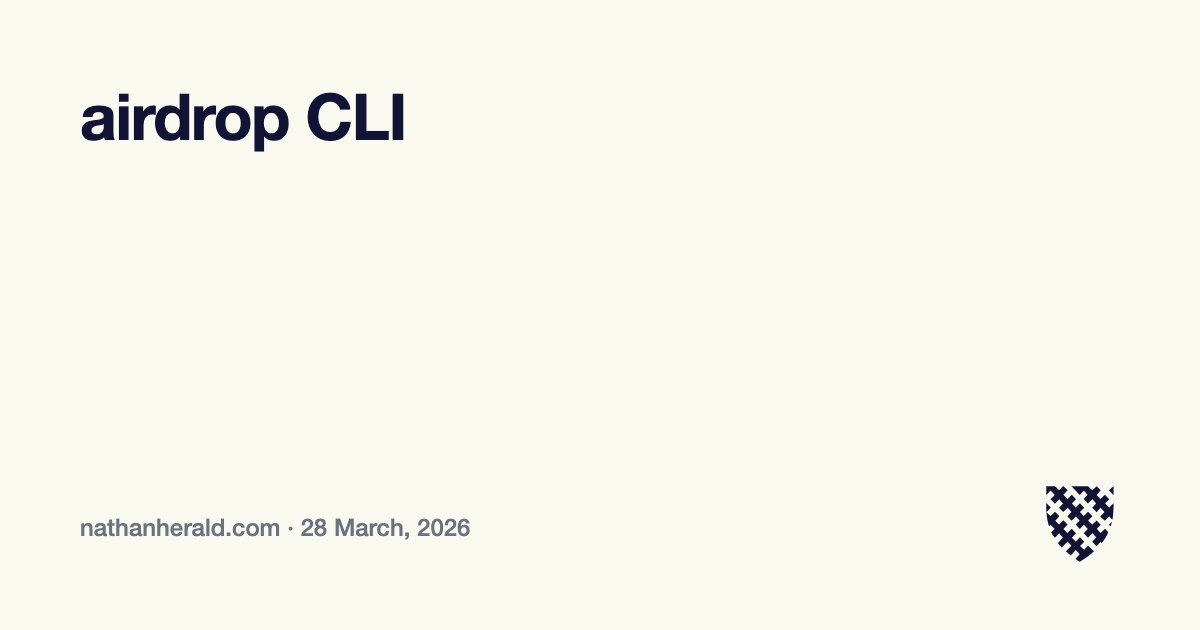
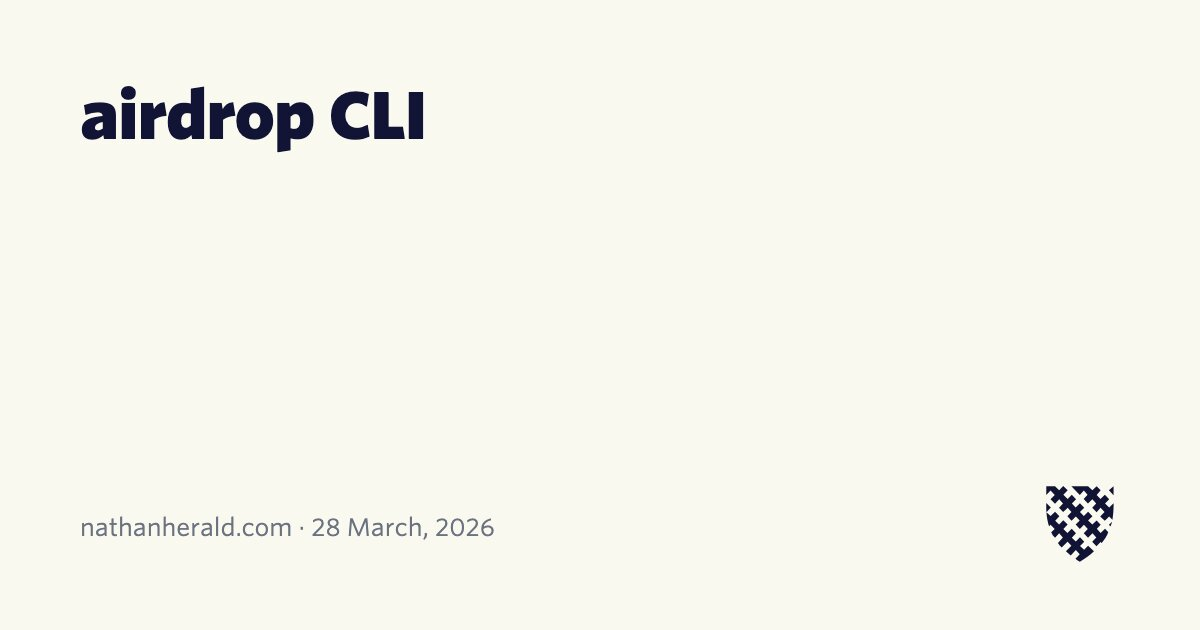
Regenerate OG images with correct font via localhost
Script now uses localhost:8000 with document.fonts.ready wait
so Whitney loads properly in headless Chrome.

Changed region(s): [[0.0617, 0.1206, 0.37, 0.2413], [0.0617, 0.8143, 0.4317, 0.8746]]

diff --git a/bin/og-screenshot.js b/bin/og-screenshot.js
@@ -1,0 +1,20 @@
+const { chromium } = require('playwright');
+
+const url = process.argv[2];
+const outPath = process.argv[3];
+
+if (!url || !outPath) {
+  console.error('Usage: og-screenshot.js <url> <output-path>');
+  process.exit(1);
+}
+
+(async () => {
+  const browser = await chromium.launch();
+  const page = await browser.newPage({ viewport: { width: 1200, height: 630 } });
+  await page.goto(url);
+  await page.waitForFunction(() => document.fonts.ready.then(() => true));
+  await page.waitForTimeout(500);
+  const card = page.locator('.card');
+  await card.screenshot({ path: outPath });
+  await browser.close();
+})();
